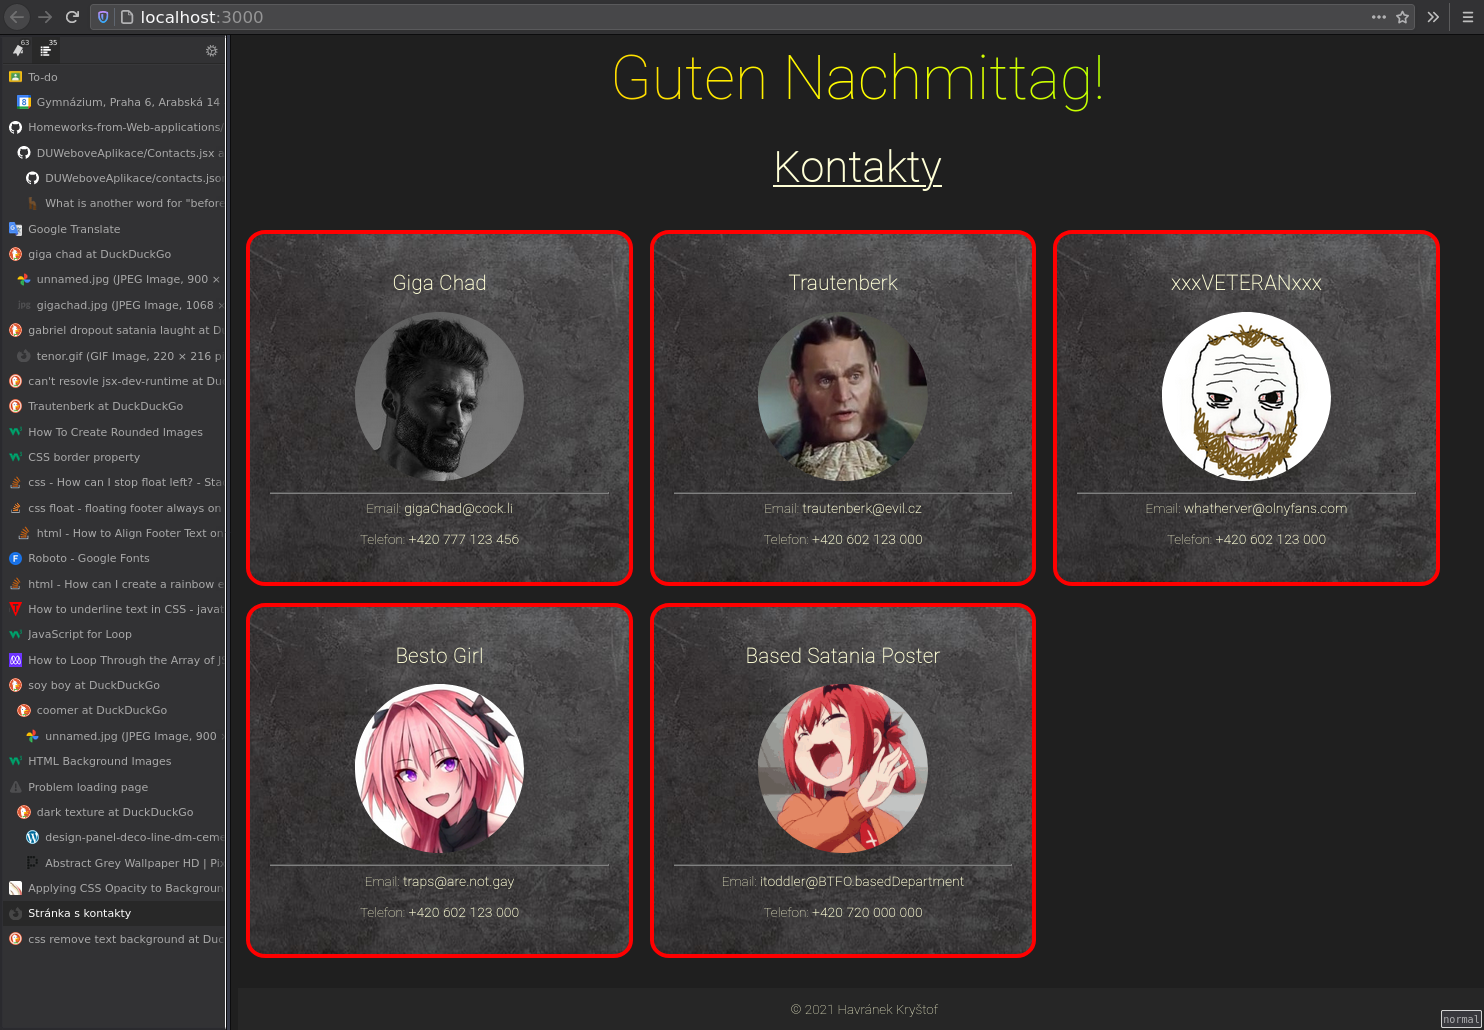
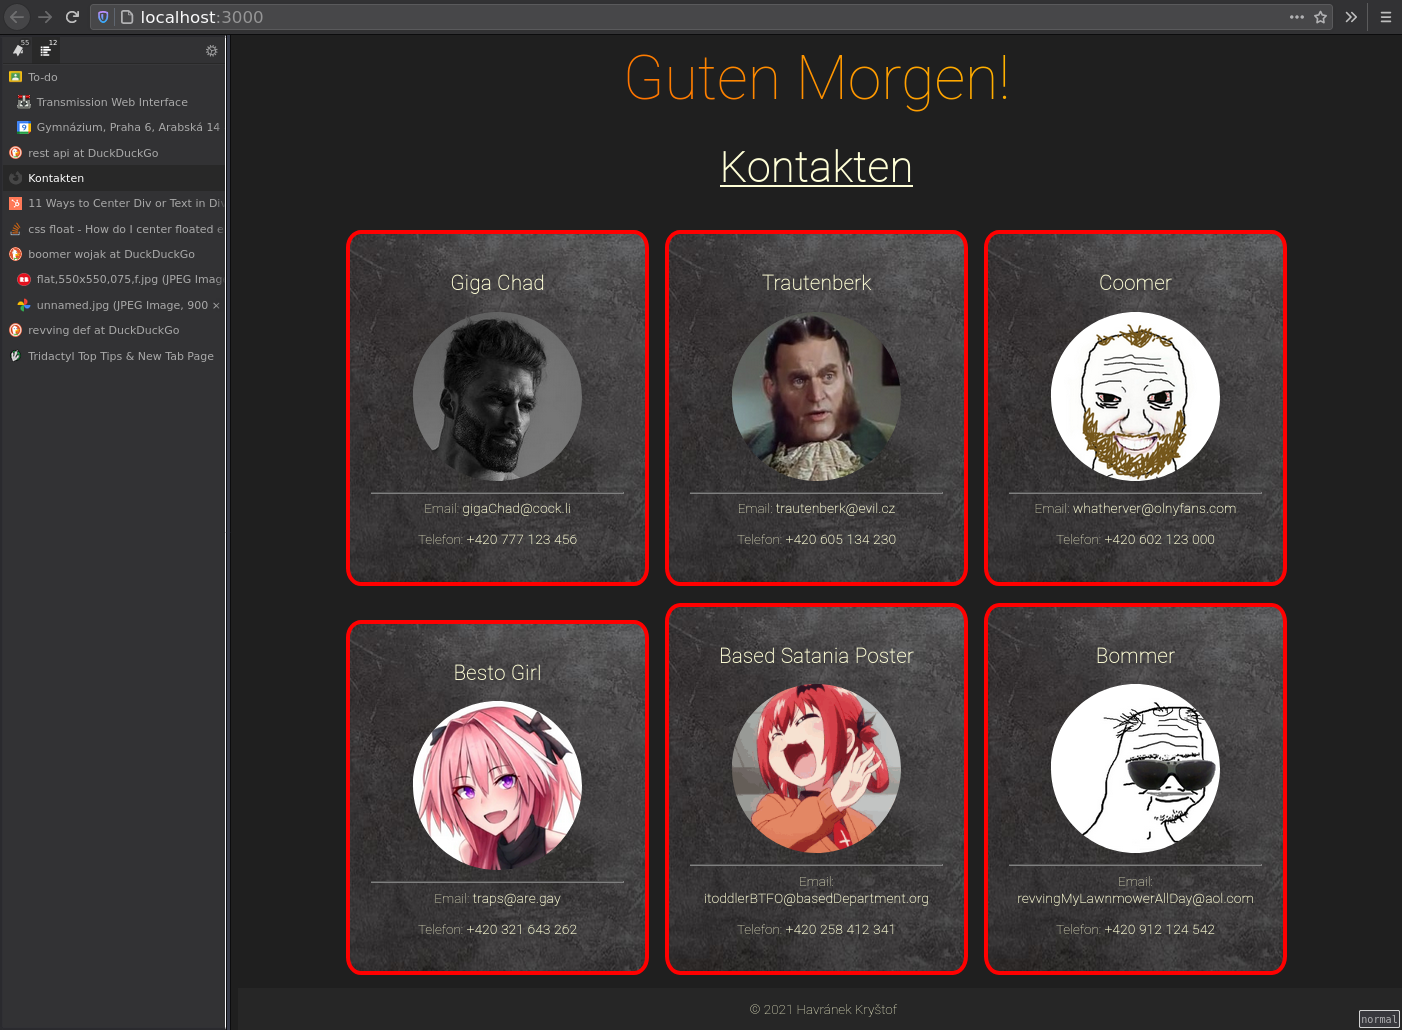
Centered contacts on page

diff --git a/10 - JS 108 (React - Components)/public/styles.css b/10 - JS 108 (React - Components)/public/styles.css
@@ -12,10 +12,10 @@ img {
 }
 
 .contactCard {
-  float: left;
   padding: 24px;
   margin: 10px;
-  width: 400px;
+  width: 300px;
+  display: inline-block;
   border: 5px solid red;
   border-radius: 5%;
   background-image: url("https://schenk.co/wp-content/uploads/2018/06/design-panel-deco-line-dm-cement-dark-texture.jpg");

diff --git a/10 - JS 108 (React - Components)/public/index.html b/10 - JS 108 (React - Components)/public/index.html
@@ -1,7 +1,7 @@
 <!DOCTYPE html>
 <html lang="en">
   <head>
-    <title>Stránka s kontakty</title>
+    <title>Kontakten</title>
     <meta charset="utf-8" />
     <meta name="viewport" content="width=device-width, initial-scale=1" />
     <link rel="preconnect" href="https://fonts.gstatic.com" />

diff --git a/10 - JS 108 (React - Components)/src/components/Contacts.jsx b/10 - JS 108 (React - Components)/src/components/Contacts.jsx
@@ -13,8 +13,8 @@ function loadContacts(){
 function Contacts() {
   return (
     <div>
-      <h1>Kontakty</h1>
-			{loadContacts()}
+      <h1>Kontakten</h1>
+				{loadContacts()}
     </div>
   );
 }
